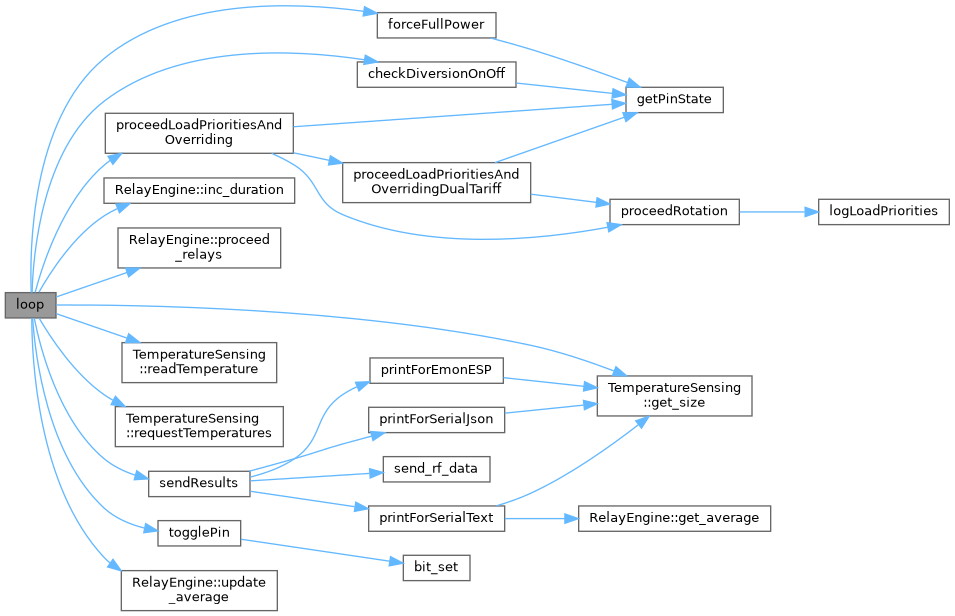
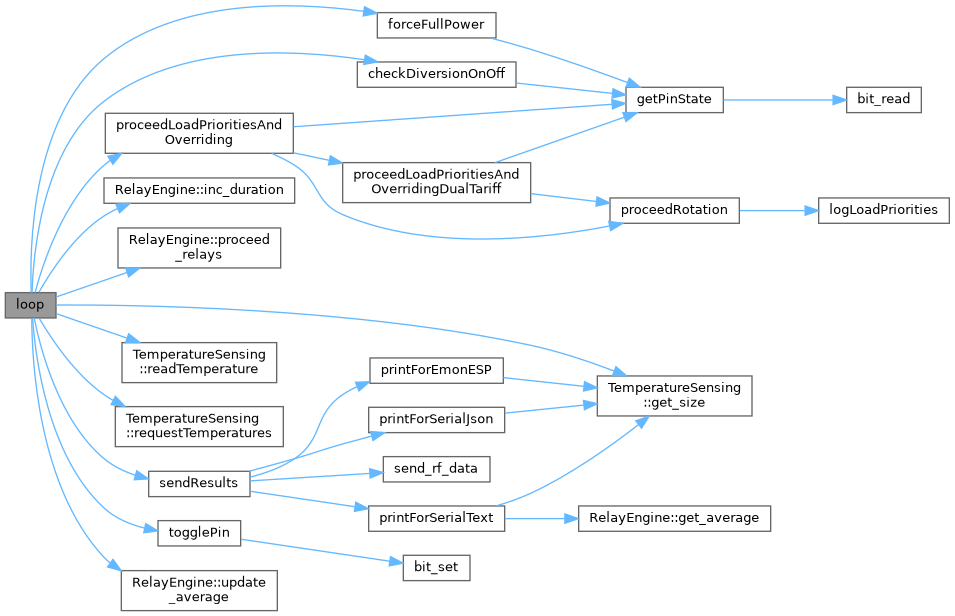
Deploying to gh-pages from @ FredM67/PVRouter-3-phase@4476fd712a6a60fc012ac187e1459a7ece7d2ce2 🚀

Changed region(s): [[0.577, 0.3084, 1.0, 0.3701], [0.7592, 0.1234, 0.9717, 0.1851], [0.4859, 0.3701, 0.6377, 0.401]]

diff --git a/main_8cpp.html b/main_8cpp.html
@@ -206,6 +206,7 @@ Here is the call graph for this function:</div>
 <map name="amain_8cpp_a31f3d562faae6b598324b56299d74f7d_cgraph" id="amain_8cpp_a31f3d562faae6b598324b56299d74f7d_cgraph">
 <area shape="rect" title="Check the diversion state." alt="" coords="5,5,164,31"/>
 <area shape="rect" href="utils__pins_8h.html#ad738c44fbe6076c3298fa7a65c697649" title="Get the Pin State." alt="" coords="212,5,309,31"/>
+<area shape="rect" href="utils__pins_8h.html#abaa54130a12679d0dcc0e7578e0e4d37" title="Read the specified bit." alt="" coords="357,5,432,31"/>
 </map>
 </div>
 <div class="dynheader">
@@ -248,6 +249,7 @@ Here is the call graph for this function:</div>
 <map name="amain_8cpp_a5157f7f79cf8c75c2d7b41d8ed47a7ef_cgraph" id="amain_8cpp_a5157f7f79cf8c75c2d7b41d8ed47a7ef_cgraph">
 <area shape="rect" title="This function set all 3 loads to full power." alt="" coords="5,5,124,31"/>
 <area shape="rect" href="utils__pins_8h.html#ad738c44fbe6076c3298fa7a65c697649" title="Get the Pin State." alt="" coords="172,5,269,31"/>
+<area shape="rect" href="utils__pins_8h.html#abaa54130a12679d0dcc0e7578e0e4d37" title="Read the specified bit." alt="" coords="317,5,392,31"/>
 </map>
 </div>
 <div class="dynheader">
@@ -299,9 +301,10 @@ Here is the call graph for this function:</div>
 <area shape="rect" href="utils__pins_8h.html#aaec5db9d46ba784c4f16046e6deb6977" title="Toggle the specified pin." alt="" coords="158,521,241,546"/>
 <area shape="rect" href="classRelayEngine.html#a2c8796258ac6cd4006a55c236c383287" title="Update the sliding average." alt="" coords="121,571,277,611"/>
 <area shape="rect" href="utils__pins_8h.html#ad738c44fbe6076c3298fa7a65c697649" title="Get the Pin State." alt="" coords="626,87,723,113"/>
+<area shape="rect" href="utils__pins_8h.html#abaa54130a12679d0dcc0e7578e0e4d37" title="Read the specified bit." alt="" coords="847,87,921,113"/>
 <area shape="rect" href="main_8cpp.html#a518d4266a5d9285d29e65616eccd2277" title="Proceed load priority in combination with dual tariff." alt="" coords="343,163,531,203"/>
-<area shape="rect" href="main_8cpp.html#a9b9428fd01019319970f27b88bb1cf33" title="Proceed load priority rotation." alt="" coords="610,199,739,225"/>
-<area shape="rect" href="utils_8h.html#ae473b1c0d80fe056d1fab9bdee38aca1" title="Prints the load priorities to the Serial output." alt="" coords="819,199,949,225"/>
+<area shape="rect" href="main_8cpp.html#a9b9428fd01019319970f27b88bb1cf33" title="Proceed load priority rotation." alt="" coords="610,198,739,223"/>
+<area shape="rect" href="utils_8h.html#ae473b1c0d80fe056d1fab9bdee38aca1" title="Prints the load priorities to the Serial output." alt="" coords="819,198,949,223"/>
 <area shape="rect" href="utils_8h.html#ac2e12eea4bb766ba5ddc1799aa342096" title="Write on Serial in EmonESP format." alt="" coords="370,358,503,383"/>
 <area shape="rect" href="utils_8h.html#a2e85b03079f1fbb8df1d5553f2431ac5" title="Prints data logs to the Serial output in Json format." alt="" coords="369,407,505,433"/>
 <area shape="rect" href="utils_8h.html#ae46d07fd4694c49e10360b5d79163443" title="Prints data logs to the Serial output in text format." alt="" coords="369,506,505,531"/>
@@ -351,6 +354,7 @@ Here is the call graph for this function:</div>
 <area shape="rect" href="utils__pins_8h.html#ad738c44fbe6076c3298fa7a65c697649" title="Get the Pin State." alt="" coords="493,5,591,31"/>
 <area shape="rect" href="main_8cpp.html#a518d4266a5d9285d29e65616eccd2277" title="Proceed load priority in combination with dual tariff." alt="" coords="241,25,429,65"/>
 <area shape="rect" href="main_8cpp.html#a9b9428fd01019319970f27b88bb1cf33" title="Proceed load priority rotation." alt="" coords="477,59,607,84"/>
+<area shape="rect" href="utils__pins_8h.html#abaa54130a12679d0dcc0e7578e0e4d37" title="Read the specified bit." alt="" coords="683,5,757,31"/>
 <area shape="rect" href="utils_8h.html#ae473b1c0d80fe056d1fab9bdee38aca1" title="Prints the load priorities to the Serial output." alt="" coords="655,59,785,84"/>
 </map>
 </div>
@@ -402,6 +406,7 @@ Here is the call graph for this function:</div>
 <area shape="rect" title="Proceed load priority in combination with dual tariff." alt="" coords="5,23,193,63"/>
 <area shape="rect" href="utils__pins_8h.html#ad738c44fbe6076c3298fa7a65c697649" title="Get the Pin State." alt="" coords="257,5,355,31"/>
 <area shape="rect" href="main_8cpp.html#a9b9428fd01019319970f27b88bb1cf33" title="Proceed load priority rotation." alt="" coords="241,55,371,80"/>
+<area shape="rect" href="utils__pins_8h.html#abaa54130a12679d0dcc0e7578e0e4d37" title="Read the specified bit." alt="" coords="447,5,521,31"/>
 <area shape="rect" href="utils_8h.html#ae473b1c0d80fe056d1fab9bdee38aca1" title="Prints the load priorities to the Serial output." alt="" coords="419,55,549,80"/>
 </map>
 </div>

diff --git a/utils__pins_8h.html b/utils__pins_8h.html
@@ -290,9 +290,15 @@ Here is the caller graph for this function:</div>
 <div class="dyncontent">
 <div class="center"><img src="utils__pins_8h_abaa54130a12679d0dcc0e7578e0e4d37_icgraph.png" border="0" usemap="#autils__pins_8h_abaa54130a12679d0dcc0e7578e0e4d37_icgraph" alt=""/></div>
 <map name="autils__pins_8h_abaa54130a12679d0dcc0e7578e0e4d37_icgraph" id="autils__pins_8h_abaa54130a12679d0dcc0e7578e0e4d37_icgraph">
-<area shape="rect" title="Read the specified bit." alt="" coords="213,31,288,56"/>
-<area shape="rect" href="validation_8h.html#a97da13005cbcf80e3bb29f69a46139ac" title=" " alt="" coords="5,5,165,31"/>
-<area shape="rect" href="validation_8h.html#a07d77671cb50e935bf9015eb1bef3bcc" title=" " alt="" coords="38,55,133,80"/>
+<area shape="rect" title="Read the specified bit." alt="" coords="784,55,859,80"/>
+<area shape="rect" href="validation_8h.html#a97da13005cbcf80e3bb29f69a46139ac" title=" " alt="" coords="576,5,736,31"/>
+<area shape="rect" href="validation_8h.html#a07d77671cb50e935bf9015eb1bef3bcc" title=" " alt="" coords="609,55,703,80"/>
+<area shape="rect" href="utils__pins_8h.html#ad738c44fbe6076c3298fa7a65c697649" title="Get the Pin State." alt="" coords="607,104,705,129"/>
+<area shape="rect" href="main_8cpp.html#a31f3d562faae6b598324b56299d74f7d" title="Check the diversion state." alt="" coords="119,28,277,53"/>
+<area shape="rect" href="main_8cpp.html#a5157f7f79cf8c75c2d7b41d8ed47a7ef" title="This function set all 3 loads to full power." alt="" coords="375,79,493,104"/>
+<area shape="rect" href="main_8cpp.html#aa0f1d282805a9e6027f2a84720d60d0b" title="This function changes the value of the load priorities." alt="" coords="104,129,292,169"/>
+<area shape="rect" href="main_8cpp.html#a518d4266a5d9285d29e65616eccd2277" title="Proceed load priority in combination with dual tariff." alt="" coords="340,179,528,219"/>
+<area shape="rect" href="main_8cpp.html#afe461d27b9c48d5921c00d521181f12f" title="Main processor." alt="" coords="5,79,56,104"/>
 </map>
 </div>
 
@@ -411,6 +417,15 @@ Here is the caller graph for this function:</div>
 false if LOW </dd></dl>
 
 <p class="definition">Definition at line <a class="el" href="utils__pins_8h_source.html#l00174">174</a> of file <a class="el" href="utils__pins_8h_source.html">utils_pins.h</a>.</p>
+<div class="dynheader">
+Here is the call graph for this function:</div>
+<div class="dyncontent">
+<div class="center"><img src="utils__pins_8h_ad738c44fbe6076c3298fa7a65c697649_cgraph.png" border="0" usemap="#autils__pins_8h_ad738c44fbe6076c3298fa7a65c697649_cgraph" alt=""/></div>
+<map name="autils__pins_8h_ad738c44fbe6076c3298fa7a65c697649_cgraph" id="autils__pins_8h_ad738c44fbe6076c3298fa7a65c697649_cgraph">
+<area shape="rect" title="Get the Pin State." alt="" coords="5,5,103,31"/>
+<area shape="rect" href="utils__pins_8h.html#abaa54130a12679d0dcc0e7578e0e4d37" title="Read the specified bit." alt="" coords="151,5,225,31"/>
+</map>
+</div>
 <div class="dynheader">
 Here is the caller graph for this function:</div>
 <div class="dyncontent">

diff --git a/validation_8h_source.html b/validation_8h_source.html
@@ -150,7 +150,7 @@ $(function() {
 <div class="line"><a id="l00090" name="l00090"></a><span class="lineno">   90</span>    <span class="keywordflow">if</span> (loadPin == 0xff)</div>
 <div class="line"><a id="l00091" name="l00091"></a><span class="lineno">   91</span>      <span class="keywordflow">return</span> 0;</div>
 <div class="line"><a id="l00092" name="l00092"></a><span class="lineno">   92</span> </div>
-<div class="line"><a id="l00093" name="l00093"></a><span class="lineno">   93</span>    <span class="keywordflow">if</span> (bitRead(used_pins, loadPin))</div>
+<div class="line"><a id="l00093" name="l00093"></a><span class="lineno">   93</span>    <span class="keywordflow">if</span> (<a class="code hl_function" href="utils__pins_8h.html#abaa54130a12679d0dcc0e7578e0e4d37">bit_read</a>(used_pins, loadPin))</div>
 <div class="line"><a id="l00094" name="l00094"></a><span class="lineno">   94</span>      <span class="keywordflow">return</span> 0;</div>
 <div class="line"><a id="l00095" name="l00095"></a><span class="lineno">   95</span> </div>
 <div class="line"><a id="l00096" name="l00096"></a><span class="lineno">   96</span>    <a class="code hl_function" href="utils__pins_8h.html#a23ed26b879b65f5ddf07facc1e4b18bc">bit_set</a>(used_pins, loadPin);</div>
@@ -164,7 +164,7 @@ $(function() {
 <div class="line"><a id="l00104" name="l00104"></a><span class="lineno">  104</span> </div>
 <div class="line"><a id="l00105" name="l00105"></a><span class="lineno">  105</span>      <span class="keywordflow">if</span> (relayPin != 0xff)</div>
 <div class="line"><a id="l00106" name="l00106"></a><span class="lineno">  106</span>      {</div>
-<div class="line"><a id="l00107" name="l00107"></a><span class="lineno">  107</span>        <span class="keywordflow">if</span> (bitRead(used_pins, relayPin))</div>
+<div class="line"><a id="l00107" name="l00107"></a><span class="lineno">  107</span>        <span class="keywordflow">if</span> (<a class="code hl_function" href="utils__pins_8h.html#abaa54130a12679d0dcc0e7578e0e4d37">bit_read</a>(used_pins, relayPin))</div>
 <div class="line"><a id="l00108" name="l00108"></a><span class="lineno">  108</span>          <span class="keywordflow">return</span> 0;</div>
 <div class="line"><a id="l00109" name="l00109"></a><span class="lineno">  109</span> </div>
 <div class="line"><a id="l00110" name="l00110"></a><span class="lineno">  110</span>        <a class="code hl_function" href="utils__pins_8h.html#a23ed26b879b65f5ddf07facc1e4b18bc">bit_set</a>(used_pins, relayPin);</div>

diff --git a/utils__pins_8h_source.html b/utils__pins_8h_source.html
@@ -181,7 +181,7 @@ $(function() {
 <div class="line"><a id="l00166" name="l00166"></a><span class="lineno">  166</span> </div>
 <div class="line"><a id="l00174" name="l00174"></a><span class="lineno"><a class="line" href="utils__pins_8h.html#ad738c44fbe6076c3298fa7a65c697649">  174</a></span><span class="keyword">inline</span> <span class="keywordtype">bool</span> <a class="code hl_function" href="utils__pins_8h.html#ad738c44fbe6076c3298fa7a65c697649">getPinState</a>(<span class="keyword">const</span> uint8_t pin)</div>
 <div class="line"><a id="l00175" name="l00175"></a><span class="lineno">  175</span>{</div>
-<div class="line"><a id="l00176" name="l00176"></a><span class="lineno">  176</span>  <span class="keywordflow">return</span> (pin &lt; 8) ? bitRead(PIND, pin) : bitRead(PINB, pin - 8);</div>
+<div class="line"><a id="l00176" name="l00176"></a><span class="lineno">  176</span>  <span class="keywordflow">return</span> (pin &lt; 8) ? <a class="code hl_function" href="utils__pins_8h.html#abaa54130a12679d0dcc0e7578e0e4d37">bit_read</a>(PIND, pin) : <a class="code hl_function" href="utils__pins_8h.html#abaa54130a12679d0dcc0e7578e0e4d37">bit_read</a>(PINB, pin - 8);</div>
 <div class="line"><a id="l00177" name="l00177"></a><span class="lineno">  177</span>}</div>
 <div class="line"><a id="l00178" name="l00178"></a><span class="lineno">  178</span> </div>
 <div class="line"><a id="l00179" name="l00179"></a><span class="lineno">  179</span><span class="preprocessor">#endif  </span><span class="comment">// UTILS_PINS_H</span></div>
